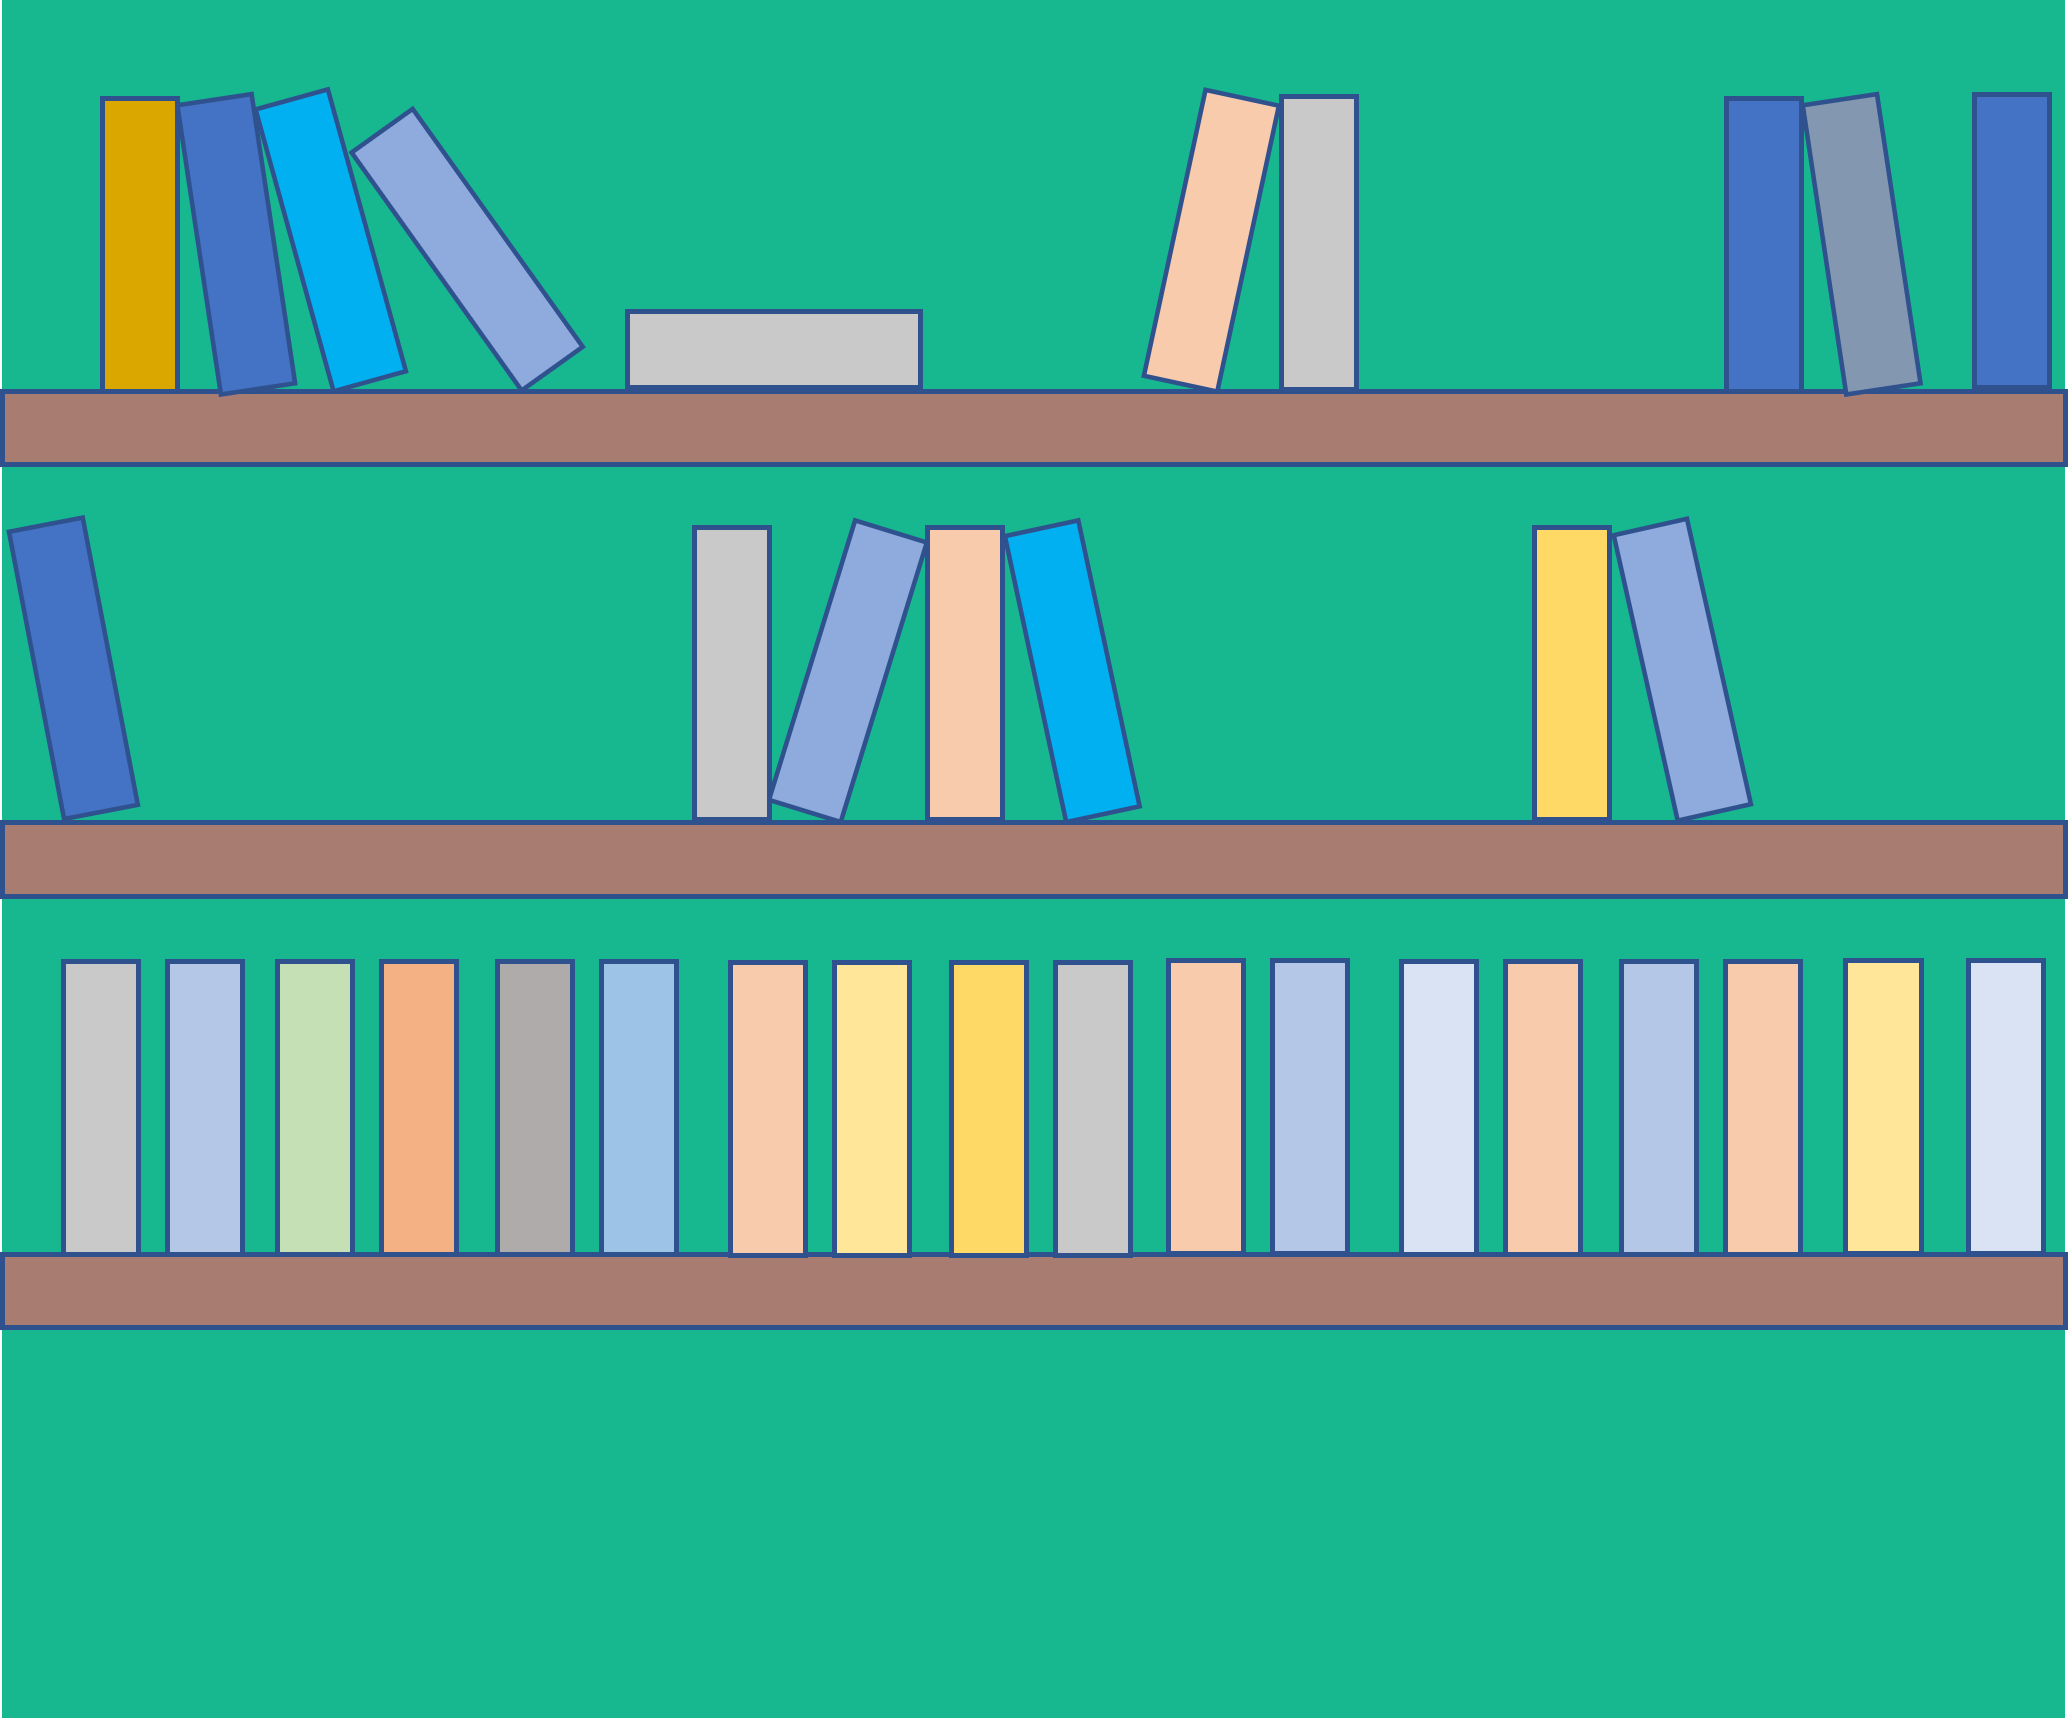
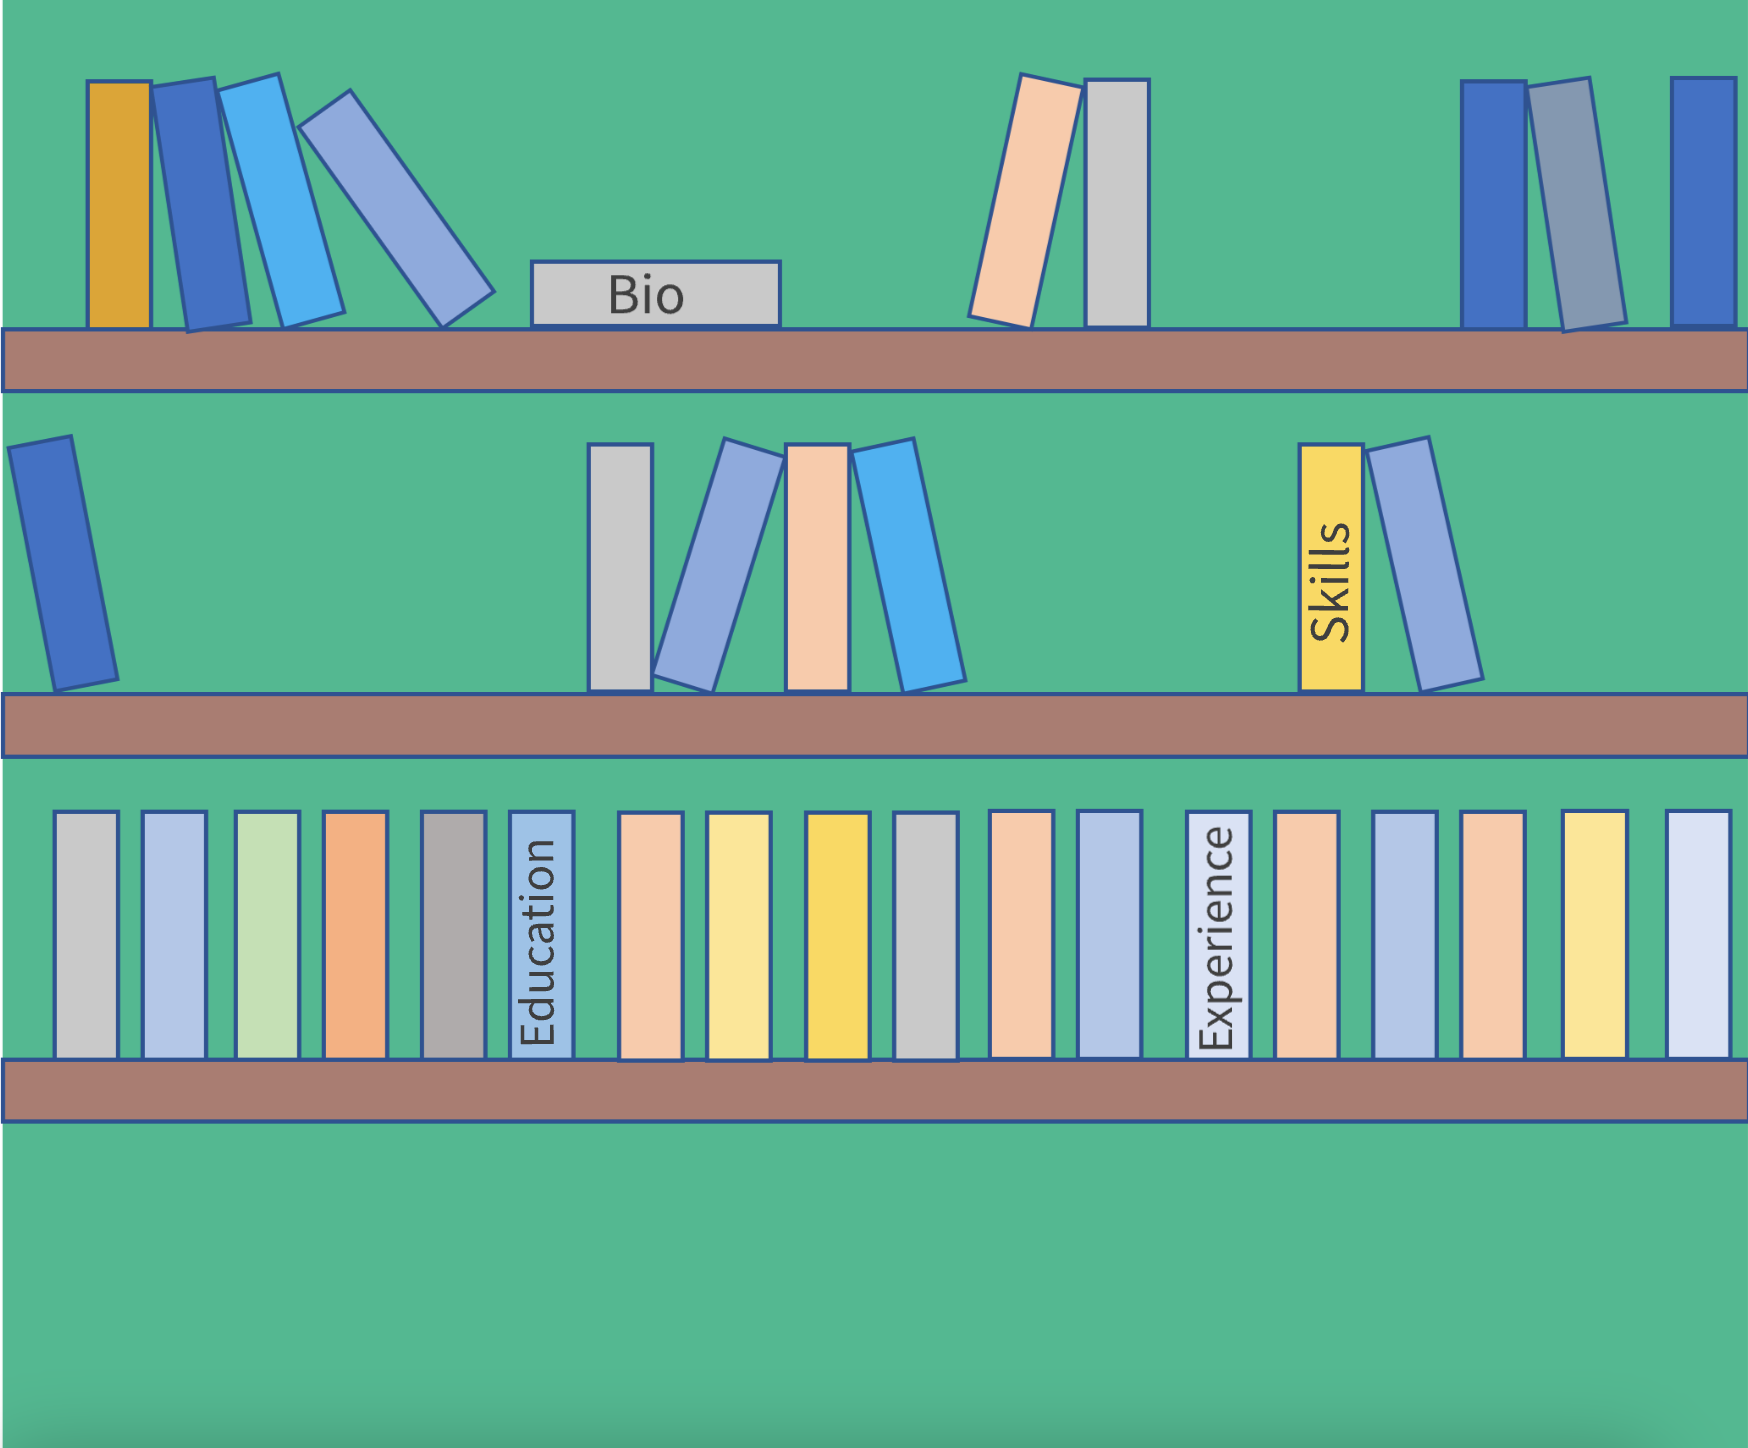
library

diff --git a/main.py b/main.py
@@ -92,7 +92,25 @@ def center_crop(image_path, name, fixed_height = 500, crop_width = 600):
         cropped_image = resized_image[crop_y:crop_y + crop_height, crop_x:crop_x + crop_width]
         cv2.imwrite(name, cropped_image)
 
-
+def display_paragraph(paragraph, line_length=40):
+    lines = []
+    current_line = ""
+    
+    for line in paragraph.splitlines():
+        words = line.split()
+        for word in words:
+            if len(current_line) + len(word) + 1 <= line_length:
+                current_line += word + " "
+            else:
+                lines.append(current_line.strip())
+                current_line = word + " "
+        
+        if current_line:
+            lines.append(current_line.strip())
+            current_line = ""
+        
+    res = "\n".join(lines)
+    return res
 
 def appStarted(app):
     app.state = "MENU"
@@ -113,17 +131,17 @@ def appStarted(app):
     app.image3clicked = False
     app.image4clicked = False
 
-    app.info = ['','','','']
+    app.info = ['','','','','']
 
     app.bioClicked = False
     app.skillsClicked = False
     app.educationClicked = False
     app.experienceClicked = False
+    app.label = None
 
     app.gallery = ImageTk.PhotoImage(Image.open("default.jpg"))
     app.library = ImageTk.PhotoImage(Image.open("library.png").resize((600,500)))
     pass
-
 
 
 
@@ -143,6 +161,12 @@ def redrawAll(app, canvas):
         canvas.create_rectangle(460, 450, 500, 610, fill='#E6CA97', outline='#E6CA97')
         canvas.create_polygon(460, 450, 500, 450, 320, 300, 280, 300, fill='#E6CA97', outline='#E6CA97')
         canvas.create_polygon(460, 450, 500, 450, 680, 300, 640, 300, fill='#E6CA97', outline='#E6CA97')
+
+        # your name
+        temp = [app.info[0][0:len(app.info[0])-1],"'s Universe"]
+        concated = "".join(temp)
+        canvas.create_text(480, 150, text=concated,
+                           fill='#7043EB', font="Helvetica 30 bold")
 
         # gallery
         canvas.create_polygon(370, 300, 370, 260, 410, 260, fill='#297D50', outline='#297D50')
@@ -244,7 +268,7 @@ def redrawAll(app, canvas):
         # canvas.create_rectangle(660, 360, 740, 400, fill='#7043EB', outline='#7043EB')
         # canvas.create_rectangle(790, 360, 870, 400, fill='#7043EB', outline='#7043EB')
 
-        canvas.create_text(440, 380, text='Fill Out Form', font='Helvetica 13', fill='#f0f0f0')
+        canvas.create_text(440, 380, text='Fill Out Form', font='Helvetica 12', fill='#f0f0f0')
         # canvas.create_text(570, 380, text='File 2', font='Helvetica 13', fill='#f0f0f0')
         # canvas.create_text(700, 380, text='File 3', font='Helvetica 13', fill='#f0f0f0')
         # canvas.create_text(830, 380, text='File 4', font='Helvetica 13', fill='#f0f0f0')
@@ -294,10 +318,27 @@ def redrawAll(app, canvas):
         canvas.create_text(480, 70, text='Press Space to Return to Portfolio', fill='#7043EB',
                                font="Helvetica 30")
         
-        canvas.create_image(180,110, image=app.library, anchor=NW)
+        canvas.create_image(179,110, image=app.library, anchor=NW)
 
-        canvas.create_text(404, 213, text='Bio', fill='#5A5A5A',
-                               font="Helvetica 15 bold")
+        
+        if app.bioClicked:
+            canvas.create_rectangle(177, 107, 782, 612, fill='#A97C72', outline='#7043EB', width=5)
+            canvas.create_rectangle(277, 110, 682, 609, fill='#f0f0f0', outline='#f0f0f0')
+            canvas.create_text(480, 250, text=display_paragraph(app.info[1]), fill='#3B3A3A', font="Helvetica 15 bold")
+        elif app.skillsClicked:
+            canvas.create_rectangle(177, 107, 782, 612, fill='#A97C72', outline='#7043EB', width=5)
+            canvas.create_rectangle(277, 110, 682, 609, fill='#f0f0f0', outline='#f0f0f0')
+            canvas.create_text(480, 250, text=display_paragraph(app.info[2]), fill='#3B3A3A', font="Helvetica 15 bold")
+        elif app.educationClicked:
+            canvas.create_rectangle(177, 107, 782, 612, fill='#A97C72', outline='#7043EB', width=5)
+            canvas.create_rectangle(277, 110, 682, 609, fill='#f0f0f0', outline='#f0f0f0')
+            canvas.create_text(480, 250, text=display_paragraph(app.info[3]), fill='#3B3A3A', font="Helvetica 15 bold")
+        elif app.experienceClicked:
+            canvas.create_rectangle(177, 107, 782, 612, fill='#A97C72', outline='#7043EB', width=5)
+            canvas.create_rectangle(277, 110, 682, 609, fill='#f0f0f0', outline='#f0f0f0')
+            canvas.create_text(480, 250, text=display_paragraph(app.info[4]), fill='#3B3A3A', font="Helvetica 15 bold")
+            
+
 
     else:
         pass
@@ -327,6 +368,13 @@ def mousePressed(app, event):
         # bio
         if event.x >= 363 and event.x <= 446 and event.y >= 203 and event.y <= 223:
             app.bioClicked = True
+        elif event.x >= 625 and event.x <= 650 and event.y >= 265 and event.y <= 350:
+            app.skillsClicked = True
+        elif event.x >= 356 and event.x <= 375 and event.y >= 394 and event.y <= 475:
+            app.educationClicked = True
+        elif event.x >= 588 and event.x <= 607 and event.y >= 393 and event.y <= 473:
+            app.experienceClicked = True
+        
         
     elif app.state == "VIEW-GALLERY":
         # back to menu
@@ -372,13 +420,13 @@ def mousePressed(app, event):
 
             # Create a list to hold the text boxes
             text_boxes = []
-            formTitles = ['Bio', 'Skills', 'Education', 'Experience']
+            formTitles = ['Your Name', 'Write a Short Bio', 'Your Skills', 'Your Education', 'Your Experience']
 
             # Create multiple Text widgets for text input
-            for i in range(4):
+            for i in range(5):
                 title_label = Label(window, text=formTitles[i])
                 title_label.pack()
-                text_box = Text(window, height=10, width=60)
+                text_box = Text(window, height=7, width=60)
                 text_box.pack()
                 text_boxes.append(text_box)
 
@@ -391,9 +439,16 @@ def mousePressed(app, event):
 
 
 def keyPressed(app, event):
+    print(f"x: {event.x}, y: {event.y}\n")
     if app.state == "VIEW-LIBRARY":
         if event.key == 'Space':
-            app.state = "VIEW-OUTSIDE"
+            if not (app.bioClicked or app.skillsClicked or app.educationClicked or app.experienceClicked):
+                app.state = "VIEW-OUTSIDE"
+            else:
+                app.bioClicked = False
+                app.skillsClicked = False
+                app.educationClicked = False
+                app.experienceClicked = False
     elif app.state == "VIEW-GALLERY":
         if event.key == 'Space':
             if not (app.image1clicked or app.image2clicked or app.image3clicked or app.image4clicked):
@@ -434,14 +489,14 @@ def timerFired(app):
 
     if app.state == "VIEW-GALLERY":
         # see if user has entered their images
-        print(f"{app.image1}\n")
         if app.portfolioDone == False:
             if (app.image1 != '' and app.image2 != '' and app.image3 != '' and app.image4 != ''):
                 app.portfolioDone = True
                 g = Gallery(app.image1, app.image2, app.image3, app.image4)
                 g.cv_save_image()
                 app.gallery = ImageTk.PhotoImage(Image.open("gallery.jpg"))
-                
+    if app.state == "VIEW-LIBRARY":
+        pass
 
     if (app.player.x >= 210 and app.player.x <= 390
         and app.player.y >= 180 and app.player.y <= 320):

diff --git a/test.py b/test.py
@@ -1,0 +1,19 @@
+def display_paragraph(paragraph, line_length=50):
+    lines = []
+    current_line = ""
+    
+    for line in paragraph.splitlines():
+        words = line.split()
+        for word in words:
+            if len(current_line) + len(word) + 1 <= line_length:
+                current_line += word + " "
+            else:
+                lines.append(current_line.strip())
+                current_line = word + " "
+        
+        if current_line:
+            lines.append(current_line.strip())
+            current_line = ""
+    
+    for line in lines:
+        print(line)
